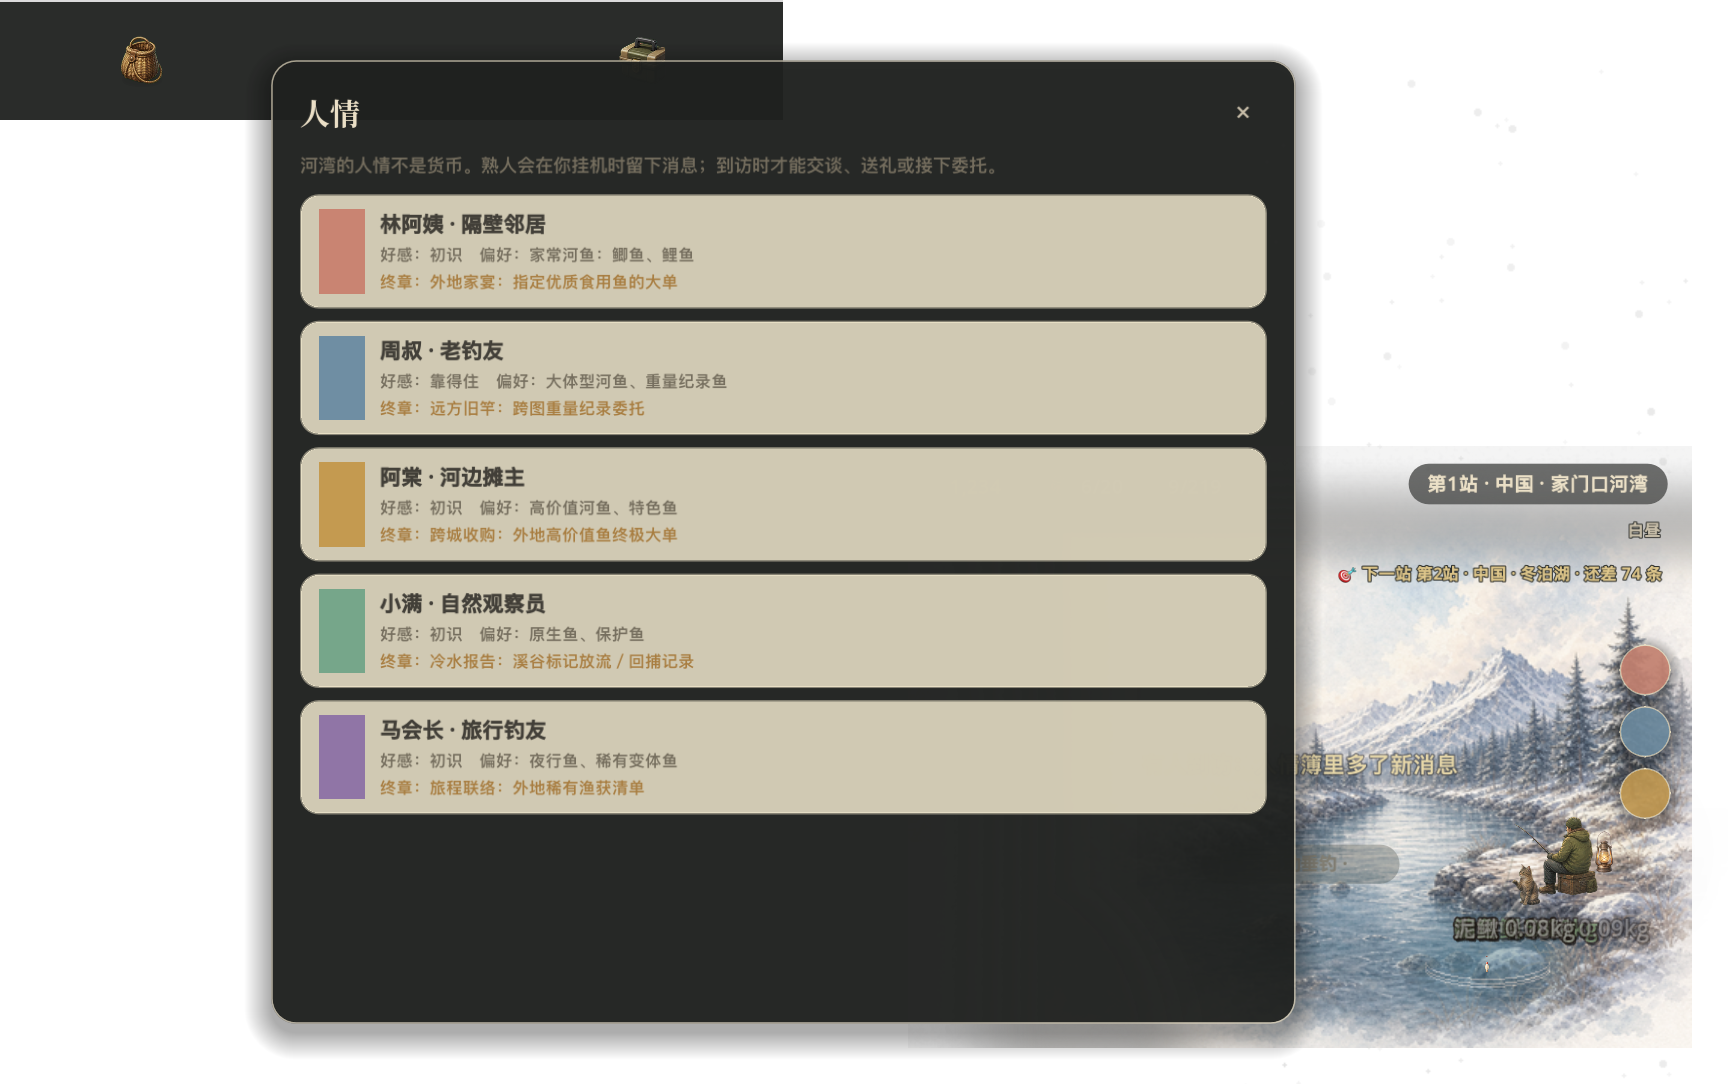
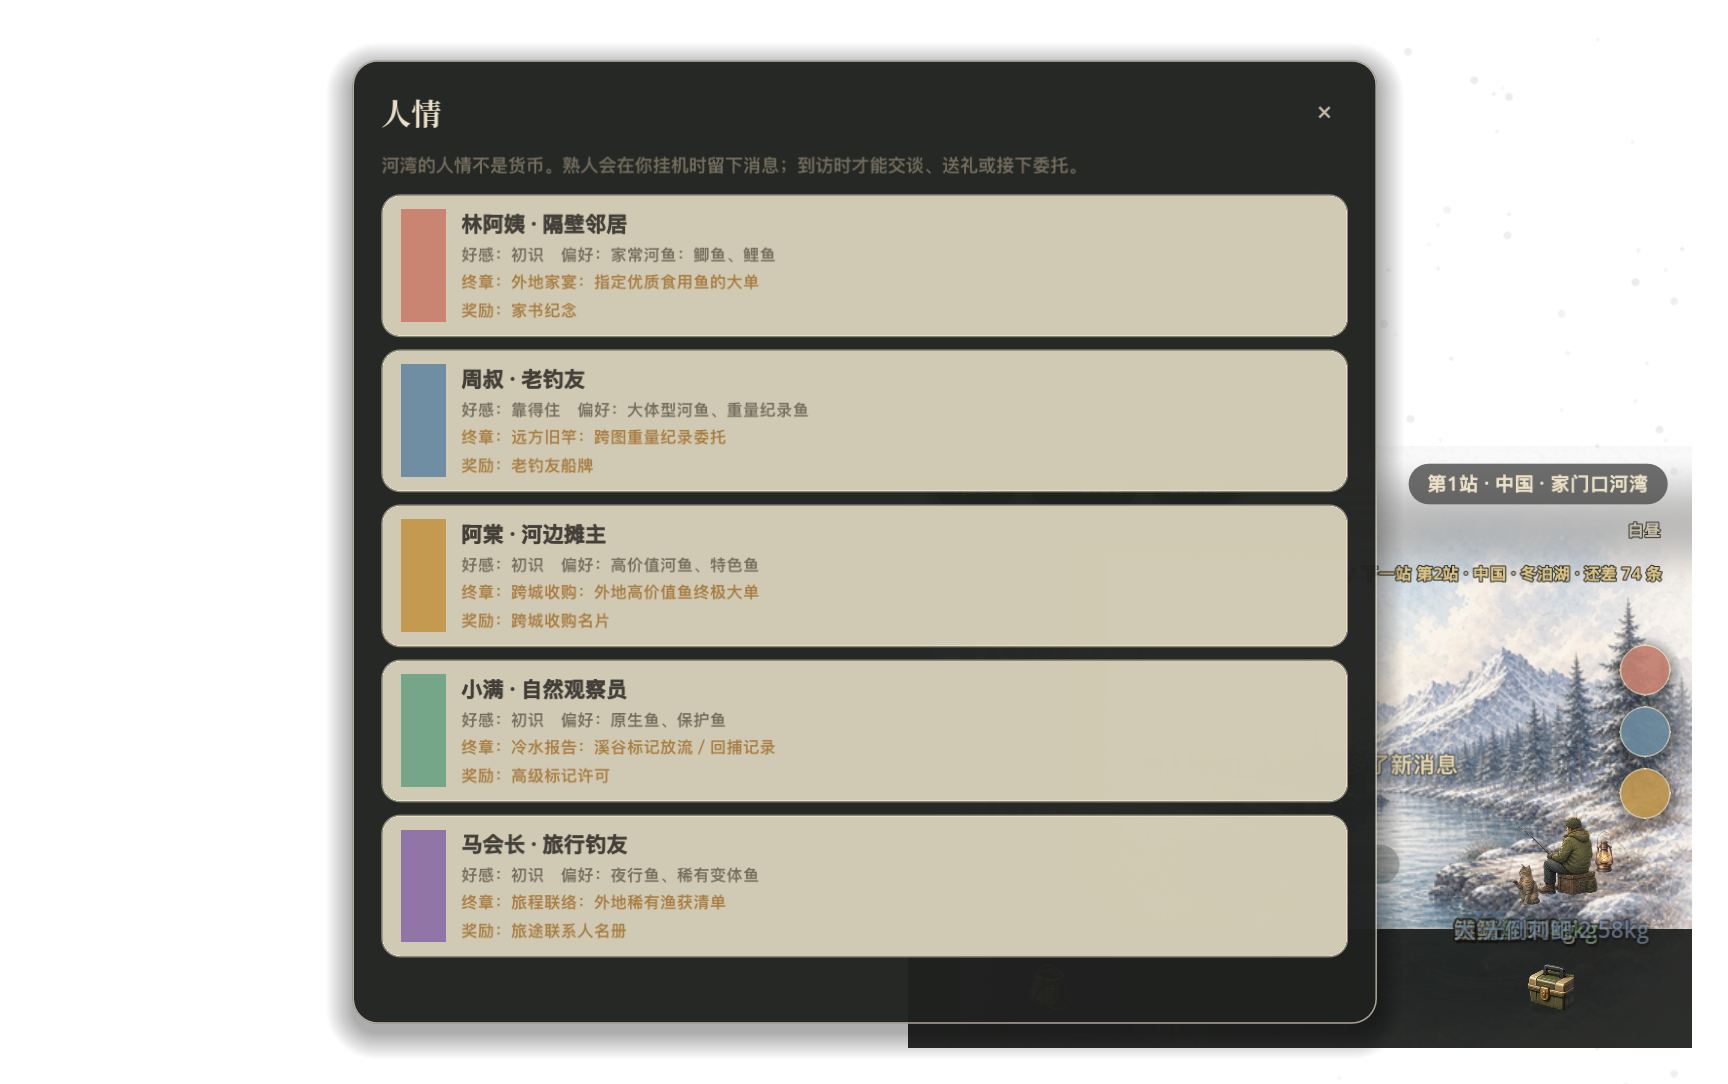
补齐人情终章永久奖励
五条终章保持一次性，区分收购与纪录交付，并保存永久纪念、许可和联系人标记。

diff --git a/docs/three-spot-linkage-design-huchao.md b/docs/three-spot-linkage-design-huchao.md
@@ -73,7 +73,7 @@
 ### 跨图与全局收益
 
 - **Lv4 钓友圈：**当周叔等人物达到对应好感时，提供永久的小船、联系人或标记许可，分别服务于冬泊湖深水观测与雪线溪谷高阶标记；它们不限制两图的基础玩法。
-- **Lv5 旅途联系人网：**五位 NPC 各自的至交终章都会开启一条常驻的跨图指定委托。玩家可从已解锁地图选择一个图鉴或经济缺口作为联系人目标，获得额外结算或定向收集推进；每条委托独立存在，不合并为单一总任务。
+- **Lv5 旅途联系人网：**五位 NPC 各自的至交终章均为一次性收束，不生成重复委托。完成后永久留下纪念、许可或联系人凭证；这些凭证在后续钓点系统中提供有上限的经济、目标组织或深层记录能力，不合并为单一总任务。
 
 河湾负责全局的**经济与目标组织**：帮助玩家把其他地图的渔获转换为有方向的任务，而不是直接给所有地图常驻金币倍率。
 
@@ -144,4 +144,5 @@
 - 雪线溪谷当前仍缺正式背景图；在该图视觉资产补齐前，不应将它作为玩家必须回访的强引导。
 - 已落地的第一阶段：v21 存档保存五位 NPC 的独立好感、到访队列、下一次到访时间、排程序号、当前人情 Buff 与终章完成状态；底部菜单有“人情”入口；右侧 HUD 显示最多 5 个纯色圆到访入口；点击可打开单条到访面板，承载提示、委托、Buff 或终章说明；到访面板内展示鱼篓，偏好鱼正常高亮，不合口味鱼灰化但仍可点击并触发拒收；Buff 到访可通过几句对话领取 10 分钟单槽限时增益；普通委托可交付一条偏好鱼，成功后消耗鱼并发金币与好感奖励，不合格只拒收且委托保留；至交后优先出现跨地点终章大单，要求河湾之外的指定鱼，完成后发高额金币并记录终章完成。
 - 测试模式已补“人情模块”调试面板：左侧开发入口第三个按钮打开，可召唤指定 NPC 的闲谈 / 委托 / Buff / 终章事件，mock 打开人情簿或到访面板、给偏好鱼、给终章鱼、调整好感、重置或完成终章。无头回归覆盖到访队列、送礼、Buff、委托、终章与调试入口。
-- 下一阶段仍需单独设计和接入：NPC 文本扩写、正式头像/立绘、终章后的长期联系人收益，以及普通人情委托与每日订单在 UI 和数值上的复用边界。
+- v23 补齐一次性终章的永久奖励：林阿姨／阿棠为收购类并消耗鱼，周叔／小满／马会长为纪录类且保留鱼；完成后分别保存家书纪念、老钓友船牌、跨城收购名片、高级标记许可、旅途联系人名册。船牌与许可的玩法效果留待水文台／放流簿阶段接入。
+- 下一阶段仍需单独设计和接入：好感逐级事件池、NPC 文本扩写、正式头像/立绘，以及普通人情委托与每日订单在 UI 和数值上的复用边界。

diff --git a/BACKLOG.md b/BACKLOG.md
@@ -31,6 +31,7 @@
 
 ## ✅ 决策日志(关键拍板,最新在上 —— 防止反复纠结已否决的方向)
 
+- **2026-07-16** Owner 确认河湾五条终章均为**一次性**，不解锁重复委托：林阿姨与阿棠是收购类，核验成功后消耗鱼；周叔、小满、马会长是纪录类，只登记且保留渔获，锁定鱼也可登记。终章分别永久写入家书纪念、老钓友船牌、跨城收购名片、高级标记许可、旅途联系人名册；船牌与标记许可现阶段只保存／展示，实际作用留待三钓点联动接入。存档升至 v23，v21/v22 已完成终章的档自动补发标记。**为什么**：终章应是唯一的人物关系收束，避免变成重复任务机；长期价值通过永久关系凭证和后续钓点联动兑现。
 - **2026-07-15** 修复河湾人情簿到访排程与设计不一致：从全系统共用一个 3 小时计时器改为五位 NPC 各自保存 `next_visit_at` / `visit_seq`；解锁时仍先出现一位熟人，其余人物一个冷却周期后均可到访，已有到访的 NPC 到期会更新自己的来意而非被跳过；存档升至 v22，并迁移 v21 的全局排程。**为什么**：全局轮询会让五人填满需要约 15 小时，也无法兑现“每人独立冷却、同一 NPC 更新状态”的原设计。
 - **2026-07-13** Windows 上“点收下/卖鱼后关闭/普通点击/最小化恢复后窗口打不开”统一定性为**透明覆盖窗 Region 生命周期故障**，不是各按钮分别触发最小化：`canvas_items + expand` 后挂件坐标仍是逻辑画布单位，却被直接传给 Win32 `SetWindowRgn` 的原生客户区像素；Windows 同时不绘制 Region 外内容，故进程仍在但画面被完整裁空。修复拍板：所有 Region 写入收敛到主节点单一出口，经 `get_viewport().get_final_transform()` 转换、向外取整并留 4px 恢复抖动余量；面板态清除自定义 Region；首次弹窗前等待窗口初始化；焦点恢复/尺寸/DPI 变化后延迟重算；退化 transform/零面积多边形拒绝写入并重试；背景拖动设 6px 物理阈值且面板打开时禁拖。卖鱼跨累计 300 金币时另有旧导航 hover lambda 捕获已释放节点，也一并改为带有效性检查的回调并重排新导航。**为什么**：这些触发器都汇入同一个错误 Region 出口，逐按钮打补丁无法覆盖缩放、显示器和系统恢复路径；窗口状态机 + 原生几何回归才是一劳永逸的边界。
 - **2026-07-10** huchao 提出并确认**前三钓点联动系统设计**（详见 `docs/three-spot-linkage-design-huchao.md`）：河湾人情簿、冬泊湖水文台、雪线溪谷标记放流簿各自先提供本地效率收益，Lv4 跨图协作、Lv5 分别给经济与目标组织 / 稀有时机 / 巨物纪录三个全局维度。**为什么**：让旧钓点拥有独立且可感知的回访价值，同时用软联动而非硬门槛串起背包客旅程；设计尚未排期实现。

diff --git a/ROADMAP.md b/ROADMAP.md
@@ -13,7 +13,7 @@
 > 2. 好玩 P1 候选(冰箱待捞):离线小结翻牌化 / 今日委托 / 饵料定向 / 跑掉的大鱼(白鲸)
 > 3. 参赛材料与演示观感(背景图/鱼美术)——降为好玩之后的次优先
 
-*数据快照(2026-07-08):219 鱼(99 有专属图标)· 10 钓点(仅 3 个有背景图,十站经纬度已入 `spot_data.GEO`)· 存档 v22 · 42 成就 · 7 事件*
+*数据快照(2026-07-08):219 鱼(99 有专属图标)· 10 钓点(仅 3 个有背景图,十站经纬度已入 `spot_data.GEO`)· 存档 v23 · 42 成就 · 7 事件*
 
 ---
 ## M0 核心循环垂直切片 ☑ 已完成
@@ -51,7 +51,7 @@
 - [x] **角色属性二级映射接入结算**(旧装备仍是主轴;属性软上限修正周期/品阶/星级/变体/双钩/体型,开发面板同步展示最终指标)✅ 2026-07-08
 - [x] **装备/金币大数化**(经济量改 double 浮点大数,极端值钳制到 `1e300`;装备页/HUD 改 `K/M/B/T/Qa/Qi...` 短格式,不再用中文万/亿)✅ 2026-07-09
 - [x] **底部系统渐进开放**(开局只显示设置;3 条鱼开放鱼篓;卖鱼 300 开装备;装备消费 10K 开任务;默认钓点半图鉴开图鉴;第二钓点条件开地图;极品鱼开鱼缸;测试台可手动开关功能;存档 **v20**)✅ 2026-07-09
-- [x] **河湾人情簿（分阶段首版）**：五位 NPC 配置、独立七级好感存档、人情入口、总览、挂机到访队列、右侧纯色圆入口、到访面板内鱼篓送礼与拒收、10 分钟单槽限时 Buff 领取与生效、偏好鱼委托交付与金币/好感奖励、至交后的跨地点终章大单、测试模式人情调试面板均已接入（v21）；v22 修复为每位 NPC 独立 3 小时到访排程，已有到访到期会更新来意；后续继续扩写 NPC 文本、美术头像与跨图长期收益。
+- [x] **河湾人情簿（分阶段首版）**：五位 NPC 配置、独立七级好感存档、人情入口、总览、挂机到访队列、右侧纯色圆入口、到访送礼、10 分钟单槽 Buff、偏好鱼委托、跨地点终章大单与调试面板均已接入（v21）；v22 改为每位 NPC 独立 3 小时到访排程；v23 为五条一次性终章补齐永久纪念／许可／联系人标记，收购类消耗鱼、纪录类保留鱼；后续继续扩写逐级事件池、人物文本／头像与三钓点联动效果。
 - [ ] **219 鱼美术补齐**(现 99 条有专属图标 → 缺 120;缺图自动回退品阶通用图标不崩)
 - [ ] **7 个新钓点背景图**(数据已配,缺干净底图;**其中雪线溪谷 mountain_stream / 下山进城 urban_pond 在退款窗口内可达,列入上架 DoD 必须有图**)
 - [x] **README 文案同步真实数字**(鱼 106→219、存档 v11→v12;钓点守 3 不虚报)✅ 2026-06-23

diff --git a/README.md b/README.md
@@ -125,9 +125,9 @@ godot --headless -s tools/balance_probe.gd
 
 ## 存档
 
-`user://corner_fishing_save.json`（当前 **v22**：v15 新增彩鳞/昨日收入锚/巨物赛累计夺金字段；v16 帧率默认 30→120 一次性迁移；v17 新增绕线轮等级；v18 新增鱼线/浮漂/探鱼器/钓鱼笔记/钓鱼手套等级；v19 图鉴补存破纪录日期 wd；v20 新增功能渐进开放状态与装备消费累计；v21 新增河湾人情簿五位 NPC 的独立好感、到访队列、当前人情 Buff 与终章完成状态；v22 将人情到访改为每位 NPC 独立排程并兼容迁移 v21 全局排程）。每 10s 自动存 + 退出存 + 拖动后存 + 切钓点/陈列后存。
+`user://corner_fishing_save.json`（当前 **v23**：v15 新增彩鳞/昨日收入锚/巨物赛累计夺金字段；v16 帧率默认 30→120 一次性迁移；v17 新增绕线轮等级；v18 新增鱼线/浮漂/探鱼器/钓鱼笔记/钓鱼手套等级；v19 图鉴补存破纪录日期 wd；v20 新增功能渐进开放状态与装备消费累计；v21 新增河湾人情簿五位 NPC 的独立好感、到访队列、当前人情 Buff 与终章完成状态；v22 将人情到访改为每位 NPC 独立排程；v23 新增五条一次性终章的永久纪念、许可与联系人标记，并为 v21/v22 已完成终章的存档补发）。每 10s 自动存 + 退出存 + 拖动后存 + 切钓点/陈列后存。
 历次结构升级均向后兼容迁移（图鉴纪录轴、背包多元组、徽章、每日订单、多钓点、陈列、稀有变体、
-**活水族箱 / 首捕日 / 专注奖励 v11、诱饵窝料 v12、背包客角色 v13、鱼贩合约 v14、彩鳞与收入锚 v15、帧率默认迁移 v16、绕线轮速度装备 v17、属性装备链 v18、图鉴破纪录日期 v19、功能渐进开放 v20、河湾人情簿与到访事件 v21、NPC 独立到访排程 v22**），回归测试覆盖迁移。
+**活水族箱 / 首捕日 / 专注奖励 v11、诱饵窝料 v12、背包客角色 v13、鱼贩合约 v14、彩鳞与收入锚 v15、帧率默认迁移 v16、绕线轮速度装备 v17、属性装备链 v18、图鉴破纪录日期 v19、功能渐进开放 v20、河湾人情簿与到访事件 v21、NPC 独立到访排程 v22、一次性终章永久奖励 v23**），回归测试覆盖迁移。
 
 ## 路线图（未实现）
 
